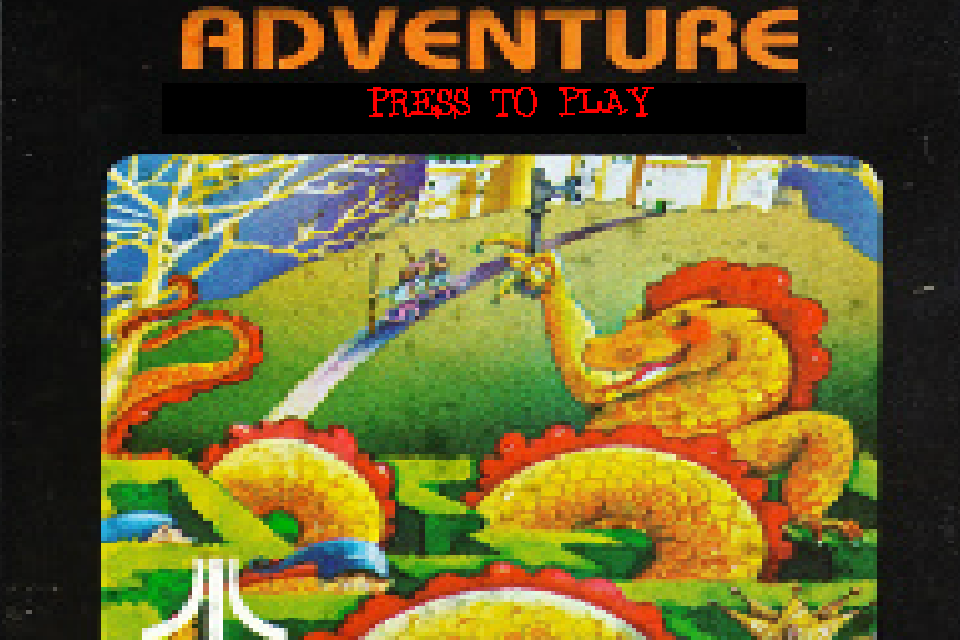
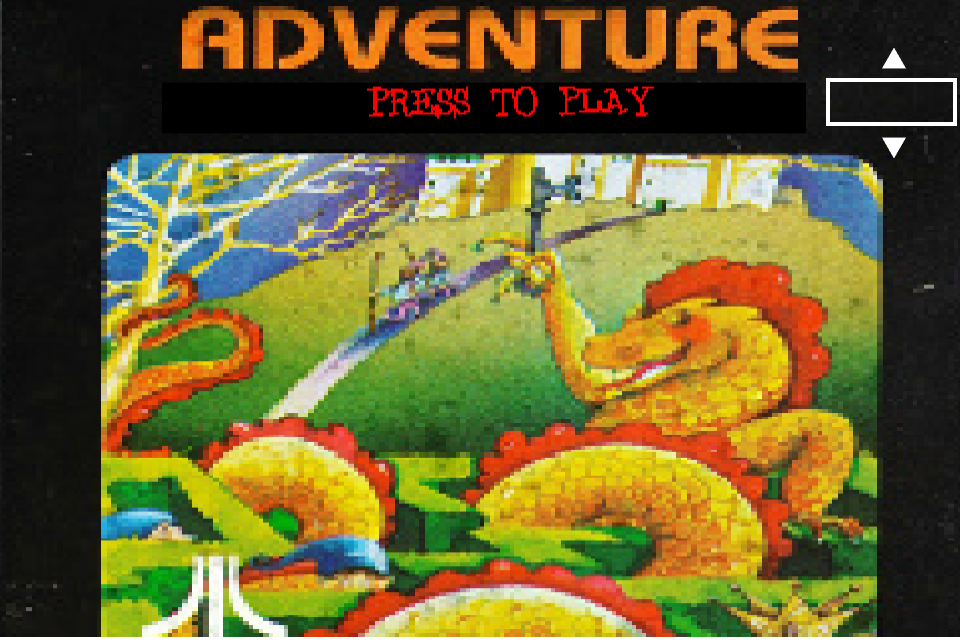
simple drawing

diff --git a/minimalist-game-framework-core/Game/Game.cs b/minimalist-game-framework-core/Game/Game.cs
@@ -11,19 +11,25 @@ class Game
     Vector2 tileSize = new Vector2(32, 32);
     Vector2 startpos = new Vector2(250, 300);
     Vector2 currRoom = new Vector2(2, 4);
-
+    bool start = true;
     Player player;
     static Room[,] rooms;
-    
+    StartScreen startScreen;
     public Game()
     {
         rooms = new Room[30, 20];
         rooms[(int)currRoom.X, (int)currRoom.Y] = new Room(currRoom);
         player = new Player(startpos, currRoom);
+        startScreen = new StartScreen();
     }
 
     public void Update()
     {
+        if (start)
+        {
+            startScreen.draw();
+            return;
+        }
         if (player.GameOver()) GameOver();
         //three steps
         //1. collect input and predict the movement without colisions

diff --git a/minimalist-game-framework-core/Game/StartScreen.cs b/minimalist-game-framework-core/Game/StartScreen.cs
@@ -5,7 +5,7 @@ using System.Text;
 class StartScreen
 {
     Texture startScreen = Engine.LoadTexture("startScreen/startScreen.png");
-    Font font = Engine.LoadFont("font.ttf",25);
+    Font font = Engine.LoadFont("startScreen/font.ttf",20);
     int difficulty = 0;
     public StartScreen()
     {
@@ -14,14 +14,14 @@ class StartScreen
     public void draw()
     {
         Engine.DrawTexture(startScreen, Vector2.Zero, size: Game.Resolution) ;
-
+        Engine.DrawString(""+difficulty%3, new Vector2(7 * Game.Resolution.X / 8+45, Game.Resolution.Y / 8+15),Color.White,font);
     }
     public void Update()
     {
-
+        
     }
     public int GetDifficulty()
     {
-        return difficulty;
+        return difficulty%3;
     }
 }
